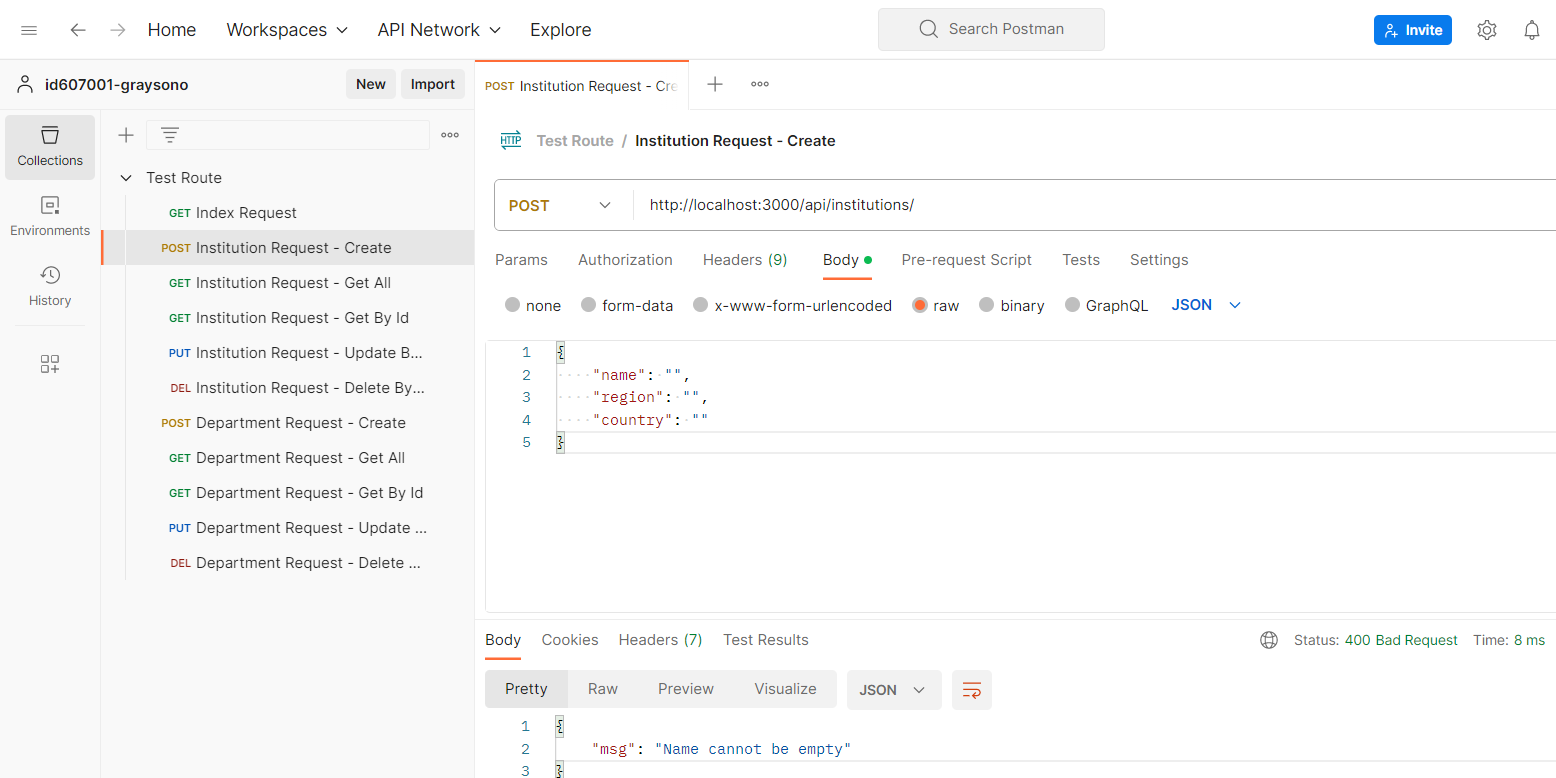
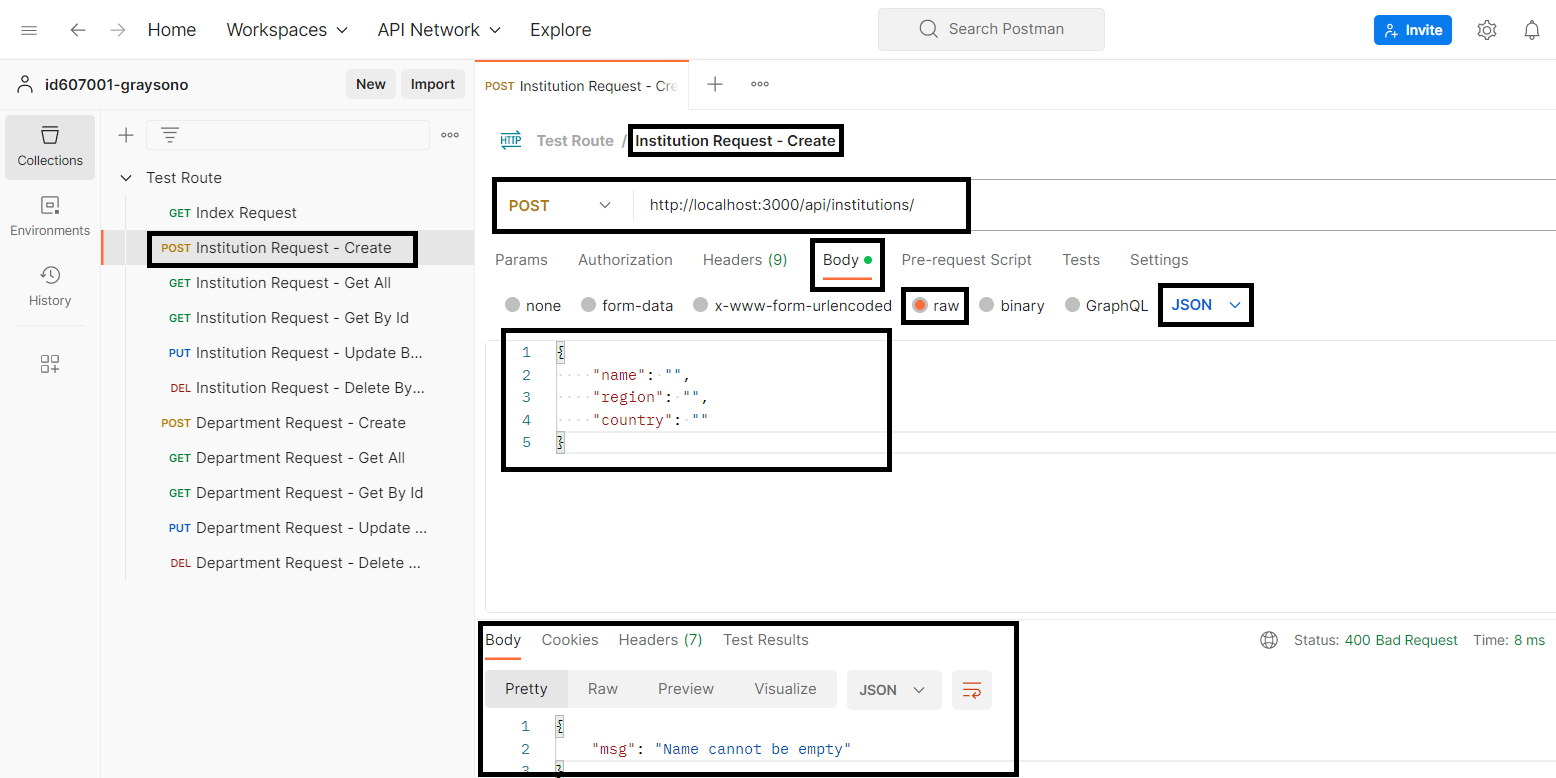
update 06

diff --git a/lecture-notes/06-validation.md b/lecture-notes/06-validation.md
@@ -54,6 +54,16 @@ const validatePostInstitution = (req, res, next) => {
 export { validateInstitution };
 ```
 
+Let us discuss the code above.
+
+What is `next`? `next` is a function that is used to pass control to the next middleware function. If `next` is not called, the request will be left hanging.
+
+What is `institutionSchema`? `institutionSchema` is an object that contains the validation rules for `req.body`.
+
+What is `institutionSchema.validate(req.body)`? `institutionSchema.validate(req.body)` is a function that validates the `institutionSchema` object against `req.body`.
+
+What is `error`? `error` is an object that contains the error message if the validation fails.
+
 ---
 
 In the `routes` directory, update the `institutions.js` file to include the following code.
@@ -69,5 +79,14 @@ router.post("/", validatePostInstitution, createInstitution);
 
 ...
 ```
+
+## Testing the API
+
+Let us test the API using **Postman**.
+
+
+
+![](<../resources (ignore)/img/06/postman-1.PNG>)
+
 
 ## Formative Assessment

diff --git a/lecture-notes/02-express-and-postman.md b/lecture-notes/02-express-and-postman.md
@@ -206,3 +206,6 @@ Hello, World!
 As we work through the examples, we will add more requests to the collection. Later we will use the collection to create documentation for our **REST API**.
 
 ## Formative Assessment
+
+### Task 1
+
